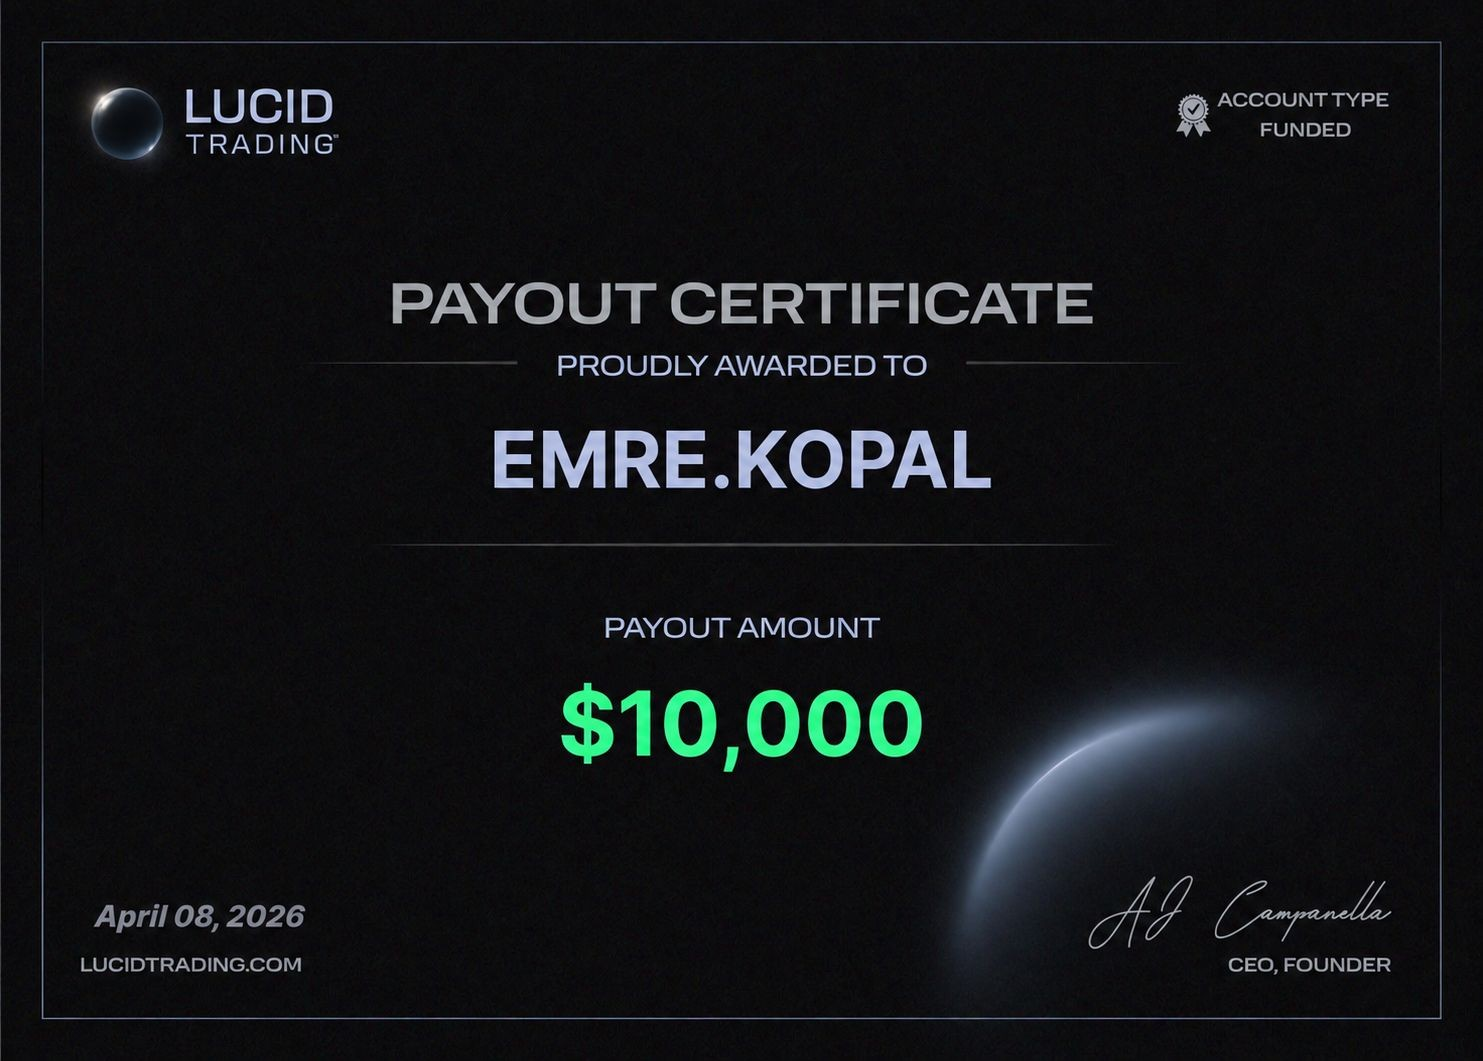
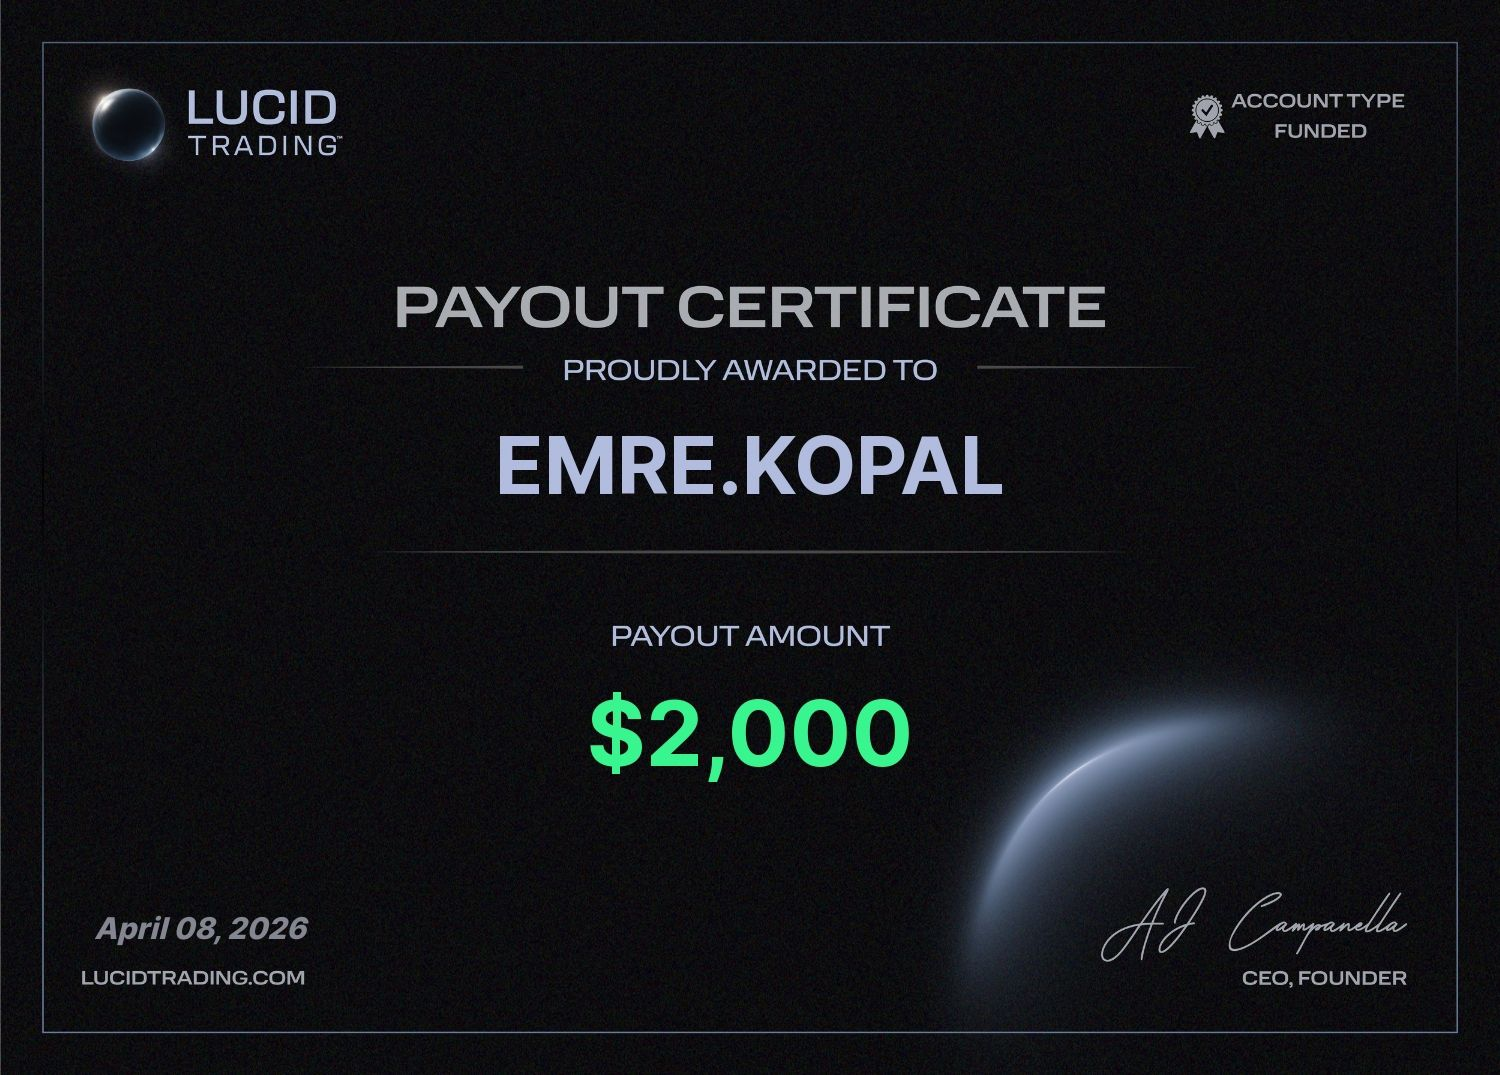
feat(landing): Emres Auszahlungen durch echte Apex- und Lucid-Zertifikate ersetzt
Verkaufsseite zeigt drei ausgesuchte Belege, /ergebnisse alle acht.
Die drei alten 10.000-$-Zertifikate sind raus; zwei davon trugen dasselbe
Datum wie neue Zertifikate mit anderem Betrag.

diff --git a/config/landing-membership.ts b/config/landing-membership.ts
@@ -117,10 +117,32 @@ export const auszahlungenCommunity: Auszahlung[] = [
   { quelle: "Lucid Trading", betrag: "968,00 $", datum: "24.08.2026", bild: "/nachweise/member-lucid-2026-08-24.jpg" },
 ];
 
+/**
+ * Emres eigene Payout-Zertifikate (Apex Trader Funding und Lucid Trading),
+ * geliefert am 01.10.2026. Sie ersetzen drei Lucid-Zertifikate über je
+ * 10.000 $ — zwei davon trugen dasselbe Datum wie ein neues Zertifikat mit
+ * anderem Betrag (08.04. und 16.07.), beide Fassungen nebeneinander hätten
+ * sich widersprochen.
+ *
+ * Die Apex-Belege kamen als PDF und sind 1:1 als Bild gerendert, die
+ * Lucid-Belege stehen so, wie sie geliefert wurden.
+ */
 export const auszahlungenEmre: Auszahlung[] = [
-  { quelle: "Lucid Trading", betrag: "10.000,00 $", datum: "16.07.2026", bild: "/nachweise/emre-lucid-2026-07-16.jpg" },
-  { quelle: "Lucid Trading", betrag: "10.000,00 $", datum: "17.05.2026", bild: "/nachweise/emre-lucid-2026-05-17.jpg" },
-  { quelle: "Lucid Trading", betrag: "10.000,00 $", datum: "08.04.2026", bild: "/nachweise/emre-lucid-2026-04-08.jpg" },
+  { quelle: "Lucid Trading", betrag: "2.000,00 $", datum: "16.04.2026", bild: "/nachweise/emre-lucid-2026-04-16.jpg" },
+  { quelle: "Lucid Trading", betrag: "2.000,00 $", datum: "08.04.2026", bild: "/nachweise/emre-lucid-2026-04-08.jpg" },
+  { quelle: "Lucid Trading", betrag: "1.509,00 $", datum: "16.07.2026", bild: "/nachweise/emre-lucid-2026-07-16.jpg" },
+  { quelle: "Apex Trader Funding", betrag: "1.500,00 $", datum: "09.07.2026", bild: "/nachweise/emre-apex-2026-07-09.jpg" },
+  { quelle: "Apex Trader Funding", betrag: "1.304,00 $", datum: "07.07.2026", bild: "/nachweise/emre-apex-2026-07-07.jpg" },
+  { quelle: "Apex Trader Funding", betrag: "1.155,00 $", datum: "26.06.2026", bild: "/nachweise/emre-apex-2026-06-26.jpg" },
+  { quelle: "Apex Trader Funding", betrag: "1.082,00 $", datum: "09.06.2026", bild: "/nachweise/emre-apex-2026-06-09.jpg" },
+  { quelle: "Apex Trader Funding", betrag: "1.000,00 $", datum: "07.07.2026", bild: "/nachweise/emre-apex-2026-07-07-b.jpg" },
+];
+
+/** Auf der Verkaufsseite: die drei vom Nutzer ausgesuchten (Ordner „ABLAGE", 01.10.2026). */
+export const auszahlungenEmreLanding: Auszahlung[] = [
+  auszahlungenEmre[0],
+  auszahlungenEmre[3],
+  auszahlungenEmre[4],
 ];
 
 export interface ChallengeNachweis {
@@ -235,7 +257,7 @@ export const ergebnisse = {
       titel: "Aus der Community",
       zeilen: auszahlungenLanding,
     },
-    { titel: "Meine Auszahlungen", zeilen: auszahlungenEmre },
+    { titel: "Meine Auszahlungen", zeilen: auszahlungenEmreLanding },
   ],
   fussLink: { label: "Alle Nachweise ansehen", href: "/ergebnisse" },
 } as const;

diff --git a/app/ergebnisse/page.tsx b/app/ergebnisse/page.tsx
@@ -108,7 +108,7 @@ export default function ErgebnissePage() {
             },
             {
               titel: "Meine Auszahlungen",
-              hinweis: "Payout-Zertifikate von Lucid Trading, ausgestellt auf Emre Kopal.",
+              hinweis: "Payout-Zertifikate von Apex Trader Funding und Lucid Trading, ausgestellt auf Emre Kopal.",
               zeilen: auszahlungenEmre,
             },
             /* Eigener Block, eigene Überschrift — und der Unterschied steht im
